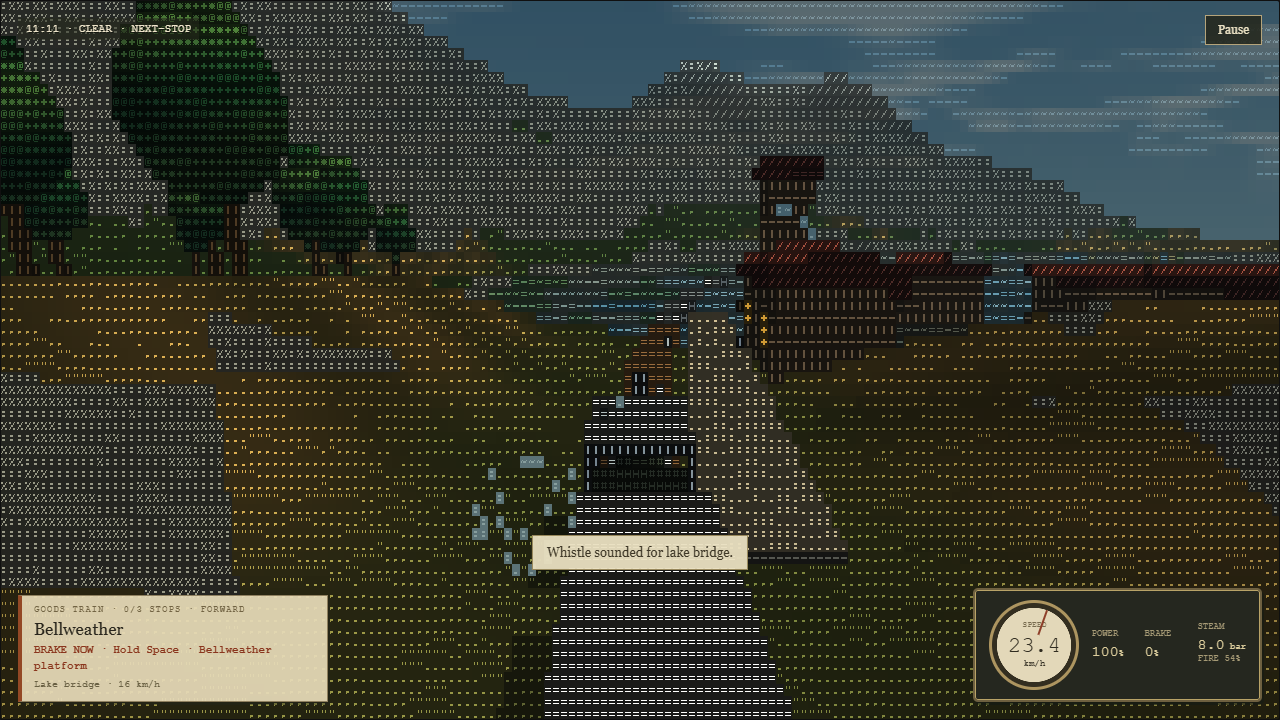
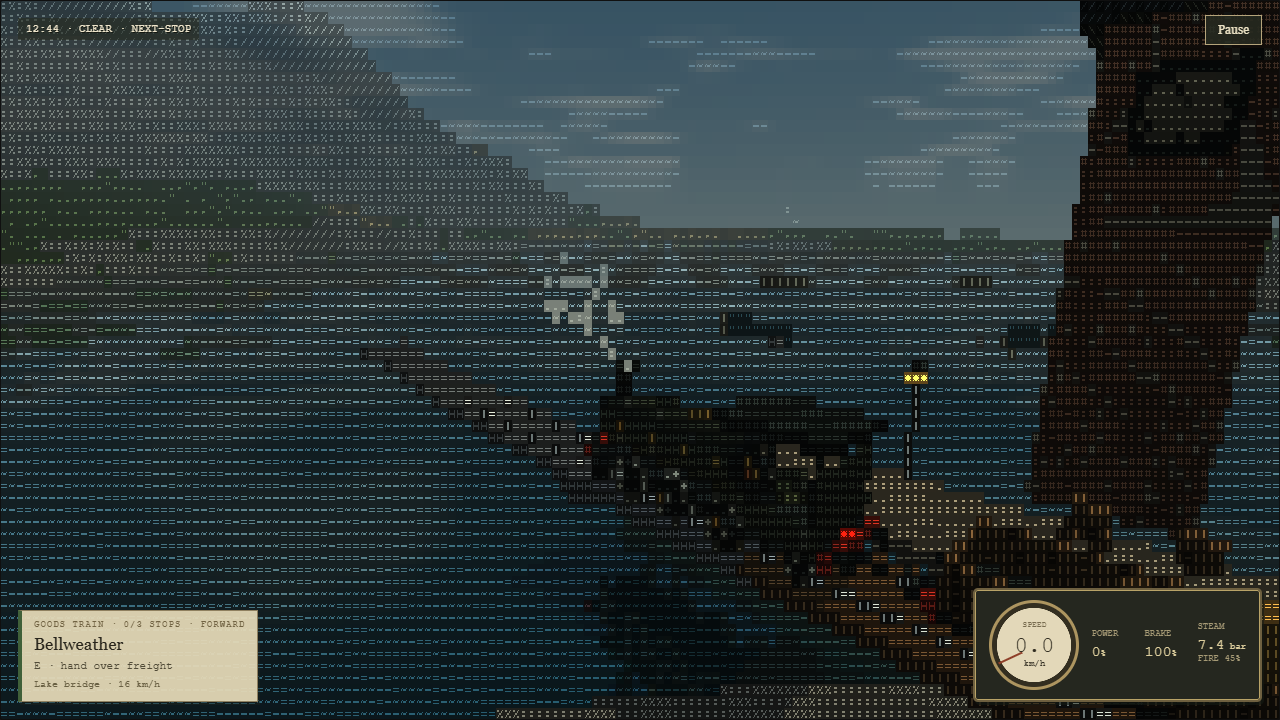
docs: record detailed final circuit, colour checks and checkpoint recovery

diff --git a/outputs/NEXT_STOP_VERIFICATION.md b/outputs/NEXT_STOP_VERIFICATION.md
@@ -1,8 +1,42 @@
 # Next Stop verification and improvement report
 
-The playable game is **next-stop.html, 130,946 bytes**. It contains HTML, CSS, JavaScript, shaders, numeric glyph masks and the procedural world generator. Open it directly in a WebGL2 browser. No server, connection, installation, images, engine or runtime companion files are needed.
+The playable game is **next-stop.html, 152,824 bytes**. It contains HTML, CSS, JavaScript, shaders, numeric glyph masks and the procedural world generator. Open it directly in a WebGL2 browser. No server, connection, installation, images, engine or runtime companion files are needed. This uses 7.64% of the 2,000,000-byte ceiling; the remaining budget is room for useful work, not padding.
 
-SHA-256: 1f60bee0124fb590cd224960d6107af20d908c8c9932c0b70fdd455fcfc8dbae.
+SHA-256: 64b6277c424d461363f2da89c9575ba9faa2b3438b0adbf2bfe6d165a07aa3f6.
+
+## Structural detail, colour and feedback
+
+Version **4** refines the existing railway. The locomotive uses capped analytical cylinders, spoked wheels, quartered crank pins and moving coupling/piston rods, a flared chimney, domes, buffers, brass/copper pipes, divided cab and actual-pressure gauges. Passenger carriages, timber logs, a mail van and mixed farm goods have distinct numerical bodies/cargo. Wheel motion follows signed unwrapped travel, including reverse and route wrap; stopped/paused mechanisms freeze.
+
+Buildings have true triangular gables, brick/siding variation, slate courses, framed glazing, doors, sills and chimneys. Stations add canopies, steps, furniture, a tower clock and readable nameboards emitted directly from numerical glyph masks. The default world has **1,492 static records and 220 trees**. Details use distance LOD, while chimney smoke is limited to the nearest three stacks; the renderer remains capped at 256 uploaded records.
+
+Material gradients, warm highlights, cool ambient shadows, sky/ground colour bounce, metallic highlights and distant aerial haze give surfaces and landscape depth. Stars come from a fixed 64-direction celestial catalogue. Translating the camera leaves their projected cells unchanged; rotating it reprojects those same directions. Clouds can occlude them. All these values go directly into glyph IDs/colours.
+
+The Web Audio API synthesizes wheel-linked steam pulses, rail-joint clicks, whistle and station bells. Pause silences the transport immediately; volume/mute apply immediately, with no stale scheduled gain. A served stop shows earned shillings and service rating. Buttons have restrained hover/press response; reduced motion disables the UI animations. The existing steam/service/crossing/exploration loop supplies choices and rewards appropriate to the rural railway.
+
+Local progress checkpoints every ten seconds during play and on pause. **Continue last journey** restores it after reopening the file. Storage denial leaves play and portable JSON export usable; corrupt checkpoint data cannot replace valid live state. Host save operations remain explicit.
+
+### Latest browser evidence
+
+| Run | Loaded artifact | Coverage and result |
+|---|---:|---|
+| 21 detail/colour inspection | 152,808 bytes, world 4 | Passed cab/side/front/station/clock/name/night drawing, zero GL errors, real W/brake motion of wheel/rod records and paused freeze |
+| 23 colour/feedback | 152,808 bytes, world 4 | Passed real-input steam/joint pulses, pause silence, fixed star translation/rotation, colour views, exact Continue, corrupt-checkpoint atomicity and storage-denied JSON export |
+| 26 UI/audio repeat | **152,824 bytes**, world 4 | Passed immediate volume/mute, timber selection, frozen pause, keyboard ledger/focus wrapping, 390×844 layout, actual file/host saves, invalid-save atomicity, legacy world 1 and context/lifecycle restoration |
+| 27 passenger/free running | **152,824 bytes**, world 4 | Passed actual passenger leg in **131.197 s**, early-service rejection, boarding wait, fare and one station bell; free-running boarding/exit |
+| 28 world-3 compatibility | **152,824 bytes** | Passed actual file-chooser import of the existing completed world-3 save, exact serialized state/checksum and error-free rendering |
+| 29 final detailed circuit | **152,824 bytes**, world 4 | Passed in **462.219 s**: three deliveries, all six foot discoveries, firing/crossings, deliberate overshoot/reverse recovery, clear camera orbit and three station bells |
+| 30 final colour/feedback | **152,824 bytes**, world 4 | Passed moving-train periodic checkpoint, train rhythm/pause, fixed star cells, day/dusk/night views, exact Continue, corrupt-checkpoint atomicity and storage-denied export |
+
+Runs 21/23 preceded only the 16-byte immediate-volume fix. Their visual/checkpoint source is unchanged in the delivered file; 26 rechecked affected audio controls, and 30 repeated the colour/feedback checks on the exact final artifact with an added periodic-save assertion. Fixed camera/time views in 21/23/30 are **render inspections**, not claimed playthroughs. In the isolated upward night-sky inspection, all **17 visible star cells** stayed identical after an 80-by-60-metre translation; rotation changed their projection. The ordinary-input sound leg in 30 emitted **36 chuffs and three rail clicks** over 41.47 metres of wheel travel, with a running AudioContext; pulse counters froze and transport gain was zero while paused. It observed a recent moving-train checkpoint before pausing, then restored the paused checkpoint exactly after reload. This verifies synthesis/state, not subjective listening quality.
+
+Successful latest runs reported no unexpected application exceptions, console warnings or WebGL errors, and requested only local files with networking disabled. The deliberate invalid-save diagnostic was expected and explicitly checked. Edge was 154.0.4258.62; Chrome was 154.0.8037.97.
+
+**58/58 focused checks passed:** world/physics 15, guidance 8, exploration 7, railway/service/version 12, refinement 5, renderer ownership/failures 5 and renderer budget/LOD 6. Checks preserve all four NEXT-STOP checksums: **4bd6b452 / 190dfd5a / 0d37a594 / 63514cfa**. They exercise seam/reverse travel, stopped mechanisms, save validation, every service/cargo primitive budget, safe station spawns and close/far/close LOD retaining building silhouettes. Packaging/source parsing and byte-exact assembly checks are separate.
+
+Failed attempts remain: 22 initially timed out navigating the local file; 24 could not complete its initial radio selection. The repeat of 22 and trace 25 exposed a real queued-gain issue: Mute could stay applied after unchecking it in a paused menu. Direct current master gain plus canceled obsolete automation fixed it; 26 passed both directions and keyboard volume changes. Navigation now allows cold local shader setup up to 60 seconds; gameplay runs still use real elapsed time.
+
+Final circuit 29 used **1280×720**, standard quality, **160×60 glyph cells**. Its final 600-frame sample measured **16.7 ms median / 16.9 ms p95**, near 60 FPS. Renderer CPU submission was **0.4 / 0.7 ms**; CPU submission is not GPU execution time. The completed service earned **54 shillings** and emitted **1,574 chuffs, 157 rail clicks and three bells**. These measurements describe this machine and sampling window. The earlier short inspection-21 sample measured 16.7 / 16.8 ms, with CPU submission 0.5 / 1.7 ms. Evidence lives under .omx/evidence/cycles/21-detail-colour/, 23-colour-feedback/, 26-ui-immediate-audio/, 27-detailed-passenger/, 28-legacy3-render/, 29-detailed-final/ and 30-final-colour-feedback/.
 
 ## Rural railway improvements
 
@@ -16,7 +50,7 @@ SHA-256: 1f60bee0124fb590cd224960d6107af20d908c8c9932c0b70fdd455fcfc8dbae.
 
 Existing grade/power-aware arrival cues, platform-centre handling, reverse recovery, F camera centring, safe smoothed chase positions and dynamic primitive reservation remain.
 
-## Actual browser runs
+## Historical rural-renewal browser runs
 
 Successful driving runs use ordinary keyboard controls in offline browsers. State reads support assertions; the train/player is not teleported and simulation time is not accelerated. The walking tester reads authoritative surfaces to plan around obstacles, then uses normal turn/walk keys.
 
@@ -27,19 +61,19 @@ Successful driving runs use ordinary keyboard controls in offline browsers. Stat
 | 17 rural UI/audio | **130,946 bytes**, world 3 | Focused run | Timber selection, pause freeze, keyboard ledger/Tab wrap, narrow layout, audio controls, file/host saves, legacy import, context/lifecycle |
 | 19 final rural circuit | **130,946 bytes**, world 3 | **449.399 s** | Three deliveries, **six of six** foot discoveries, firing/crossings, overshoot/reverse recovery and collision-free camera orbit |
 
-Runs 17 and 19 loaded the exact SHA-256 above. Passenger run 14 preceded only the volume/mute controls; those received real keyboard verification in 17. Edge was 154.0.4258.62 and Chrome 154.0.8037.97. Successful runs recorded no unexpected application exceptions, console warnings, WebGL errors or external requests. The deliberate invalid-save diagnostic in the UI run was expected and checked explicitly.
+Runs 17 and 19 loaded SHA-256 1f60bee0124fb590cd224960d6107af20d908c8c9932c0b70fdd455fcfc8dbae, the earlier 130,946-byte build. Passenger run 14 preceded only its volume/mute controls; those received real keyboard verification in 17. Edge was 154.0.4258.62 and Chrome was 154.0.8037.97. Successful runs recorded no unexpected application exceptions, console warnings, WebGL errors or external requests. The deliberate invalid-save diagnostic in the UI run was expected and checked explicitly.
 
 Earlier historical coverage remains: baseline/driving circuits 01 and 02 (307.041 / 307.304 seconds); field-journal circuit 05 (362.372 seconds); legacy-save night/exploration leg 06 (116.401 seconds). Those used earlier builds and do not prove every new feature.
 
 Failed evidence remains. Attempts 10 and 11 drove successfully but their straight-line walking helper pressed forward into a correctly solid station building. Extending the timeout did not solve it; obstacle planning fixed the harness, and 19 repeated the complete flow. Attempt 18 completed two stops/four notes but required a one-metre endpoint on a two-metre planning grid; the corrected endpoint tolerance passed numerical replay before the full repeat. Attempt 13 timed out during local navigation while several browsers were running; the serial repeat passed as 14. Attempts 15 and 16 read audio gain before scheduled changes reached its timeline; waiting for actual gain changes passed as 17. Earlier attempts 03/04/07 involved omitted reverse power, background control timing and clicking behind an open dialog. None is counted as a passed run.
 
-## Focused and visual verification
+## Historical rural-renewal focused and visual verification
 
-**52/52 checks passed:** world/physics 15, journey guidance 8, exploration 7, railway/version/service 12, renderer ownership/failures 5 and renderer budget 5. The packaging audit parses the inline runtime and checks dependency/media/network restrictions. The builder caps the game at **2,000,000 bytes**. Source assembly matches the delivered HTML byte for byte.
+The rural-renewal build passed **52/52 checks:** world/physics 15, journey guidance 8, exploration 7, railway/version/service 12, renderer ownership/failures 5 and renderer budget 5. Latest coverage is the 58 checks above. The packaging audit parses the inline runtime and checks dependency/media/network restrictions. The builder caps the game at **2,000,000 bytes**. Source assembly matches the delivered HTML byte for byte.
 
 UI checks verified a frozen serialized state while paused, keyboard access to the ledger, focus wrapping and destination selection. At **390 by 844**, the 350 by 804 menu fits with internal scrolling and no horizontal overflow. Native range/checkbox keys changed whistle volume/mute and the actual audio gain.
 
-Actual JSON download/file import and host export/import restored exact progress. Invalid boiler pressure produced a readable rejection and preserved state/live object identities. A real original save was imported through the file chooser, recreating generation 1 checksum **4bd6b452** and an automatic fireman. Numerical checks also preserve generation 2 checksum **190dfd5a**; current generation 3 is **0d37a594** for NEXT-STOP.
+Actual JSON download/file import and host export/import restored exact progress. Invalid boiler pressure produced a readable rejection and preserved state/live object identities. A real original save was imported through the file chooser, recreating generation 1 checksum **4bd6b452** and an automatic fireman. Numerical checks also preserve generation 2 checksum **190dfd5a**; rural-renewal generation 3 is **0d37a594** for NEXT-STOP.
 
 Destroy/recreate released listeners/animation and retained saved service through restart. Real WebGL context loss/restoration while the journal was open preserved progress and its paused state, and drawing resumed without GL or console errors.
 
@@ -47,9 +81,9 @@ Fixed-camera rendering inspections over **1.2 seconds** measured **380 changed f
 
 The original 17 acceptance checks were completed earlier. Retained evidence covers direct glyph emission, terrain/route agreement, water reflections responding to motion, daylight/weather and lit windows, pointer-capture fallback, quality/resize, missing WebGL2 and deliberate shader failure. Changed behavior was rechecked above; every historical visual experiment was not repeated this session.
 
-## Performance and limits
+## Historical performance and continuing limits
 
-The final circuit used **1280 by 720**, standard quality and **160 by 60 glyph cells** (9,600). Its final rolling 600-frame window measured **16.7 ms median / 16.9 ms p95**. Renderer CPU submission measured **0.3 / 0.7 ms**; these are not GPU execution times. Run 09 measured 16.7 / 16.9 ms, near 60 FPS. Measurements describe this machine and sampling window, not universal performance.
+Rural-renewal circuit 19 used **1280 by 720**, standard quality and **160 by 60 glyph cells** (9,600). Its final rolling 600-frame window measured **16.7 ms median / 16.9 ms p95**. Renderer CPU submission measured **0.3 / 0.7 ms**; these are not GPU execution times. Run 09 measured 16.7 / 16.9 ms, near 60 FPS. Measurements describe this machine and sampling window, not universal performance.
 
 Rendering remains bounded: 256 uploaded primitives, 192 terrain traversal cells, 48 shadow objects and one reflected query with reduced limits. The world is finite. There are no mobile touch controls or OS wrapper. window.NextStop.create({canvas, host}) exposes lifecycle, input and serialization for future embedding; the target OS/runtime remains unspecified.
 

diff --git a/outputs/CLAUDE_HANDOFF.md b/outputs/CLAUDE_HANDOFF.md
@@ -20,13 +20,17 @@ I eventually want the game in my OS. Keep the host interface usable. Establish t
 
 ## Current game
 
-**130,946 bytes**, SHA-256 1f60bee0124fb590cd224960d6107af20d908c8c9932c0b70fdd455fcfc8dbae. Opens directly from disk without networking. See the verification report for precise browser-run versions, durations, measurements and retained failures.
+**152,824 bytes**, SHA-256 64b6277c424d461363f2da89c9575ba9faa2b3438b0adbf2bfe6d165a07aa3f6. Opens directly from disk without networking. See the verification report for precise browser-run versions, durations, measurements and retained failures.
 
 The old rural branch line now has compact paper notices, soot/brass instruments, mountain ridges, 220 trees, fields/fences, pitched roofs, an open locomotive cab, moving foliage/grass, flickering boiler fire, drifting smoke/clouds and warm lamp lighting. There are three services: goods, passengers and free running. Goods choices are mixed farm freight, heavier timber or prompt mail. Passenger stops require four seconds stopped before service. Free running has no delivery obligation.
 
-B adds coal; V whistles; fire/pressure affect pull. Slow for the bridge and farm crossing, whistle beforehand, and read earned fares/driver rating in the journal ledger. Stops refill coal/water. Settings offers an automatic fireman and whistle volume/mute. J opens six saved walking notes and destinations; C switches cab/chase, F centres the train camera. Original arrival guidance, safe collision and deliberate reverse recovery remain.
+B adds coal; V whistles; fire/pressure affect pull. Slow for the bridge and farm crossing, whistle beforehand, and read earned fares/driver rating in the journal ledger. Stops refill coal/water and ring a bell. Steam chuffs and rail clicks follow travelled distance. Settings offers an automatic fireman and immediate volume/mute. J opens six saved walking notes and destinations; C switches cab/chase, F centres the train camera. Original arrival guidance, safe collision and deliberate reverse recovery remain.
 
-The original 17-check specification was completed earlier. Current focused coverage is **52 passing checks**, plus the packaging audit. Current browser coverage and complete circuits are itemized in the report; earlier passed runs are retained as historical evidence rather than claimed as tests of every later change. No unattended automation is active.
+Version 4 adds a capped-cylinder boiler, spoked wheels, moving coupling/piston rods, brass/copper fittings, buffers, divided cab and pressure gauges; distinct passenger, timber, mail and mixed-goods carriages; true triangular country gables, masonry/siding, slate courses, framed windows/doors, canopies, station furniture, a clock and numerical-glyph nameboards. Material gradients, warm highlights/cool shadows and aerial haze add depth. A fixed celestial catalogue removes star parallax from translation; rotation projects the same directions into different cells.
+
+The app checkpoints local progress every ten seconds and on pause, with an explicit Continue action after reopening. Storage denial does not prevent play or portable JSON export. A corrupt checkpoint is rejected before live state changes. Checkpoints use next-stop-checkpoint; manual export retains next-stop-save. Browser storage is optional, and host persistence remains explicit.
+
+The original 17-check specification was completed earlier. Current focused coverage is **58 passing checks**, plus the packaging audit. Current browser coverage and complete circuits are itemized in the report; earlier passed runs are retained as historical evidence rather than claimed as tests of every later change. No unattended automation was created.
 
 ## File map
 
@@ -41,13 +45,16 @@ The original 17-check specification was completed earlier. Current focused cover
 | work/src/exploration.js | Safe foot landmarks, notes, destination and journal validation |
 | work/src/railway.js | Steam, service/cargo choices, crossings, fares and portable driver ledger |
 | work/src/renderer.js | Raw WebGL2 numerical scene queries and cell/display passes |
-| work/src/app.js | Input, fixed-step loop, UI, synthesized whistle, save integration and host lifecycle |
+| work/src/app.js | Input, fixed-step loop, UI, synthesized railway sound, local checkpoint, saves and host lifecycle |
 | work/src/shell.html | Inline themed HTML/CSS and assembly placeholder |
 | work/build.cjs | Source assembly and 2 MB bound |
 | work/run-cycle.cjs | Dedicated-process full offline circuit with reverse, orbit and all six discoveries |
 | work/playtest-cycle.cjs | Real-input driving and obstacle-aware walking helper |
 | work/playtest-passenger.cjs | Actual passenger boarding wait, fare and free-running interactions |
 | work/playtest-rural-ui.cjs | Cargo selection, keyboard/mobile/audio, JSON/host saves, legacy import and context/lifecycle |
+| work/playtest-detail.cjs | Labeled cab/side/front/station/clock/name/day/night render inspections and real-input moving/stopped mechanisms |
+| work/playtest-colour-feedback.cjs | Real-input train rhythm; isolated star translation/rotation, colour views, exact Continue and denied-storage export |
+| work/playtest-legacy3.cjs | Existing world-3 save imported through the actual file chooser and drawn with current shaders |
 | work/qa/ | Focused regressions, packaging audit and historical reviews |
 | .omx/plans/, .omx/state/, .omx/evidence/ | Local plans, QA inventory and browser evidence, ignored by Git |
 
@@ -56,15 +63,17 @@ Development files and screenshots are not runtime dependencies. Edit source and 
 ## Architecture to preserve
 
 - Authoritative terrain is a seeded 129 by 129 height array. CPU and renderer share its bilinear surface. Train/carriages use a closed cumulative-arc-length route.
-- Generation **1** preserves the original world. Generation **2** preserves the rural terrain/tree layout. New worlds default to **3**, adding pitched roof records and the open cab. For NEXT-STOP, checksums are 4bd6b452 / 190dfd5a / 0d37a594 respectively. Restore the explicit saved world version.
+- Generations **1/2/3** preserve their original numerical worlds. New worlds default to **4** with detailed structures and trains. NEXT-STOP checksums are 4bd6b452 / 190dfd5a / 0d37a594 / 63514cfa. Version-4 details are appended after base generation without consuming its random stream. Restore the explicit saved world version.
 - Simulation remains independent of DOM/WebGL with fixed 60 Hz updates and bounded catch-up. Step the railway module before simulation so traction and predicted stopping use current pressure/cargo load. Guidance integrates the same forces on an isolated descriptor.
 - The scene pass runs at glyph-grid resolution into three RGBA8UI attachments. The display pass expands numeric 5 by 7 glyph masks. Numerical textures contain world data, not pictures.
-- Primitive types: 0 box, 1 ellipsoid, 2 numerical pitched prism. The prism interval clips two roof planes. Foliage displacement is cosmetic; static trunks remain authoritative collision. Materials 12 foliage, 17 gaslamp, 18 fire, 19 smoke, 20 red lamp and 23 locomotive soot supplement the original palette.
+- Primitive types: 0 box, 1 ellipsoid, 2 legacy trapezoid roof; 3/4/5 capped elliptical cylinders along local Z/X/Y; 6 pitched box; 7 true triangular gable prism. Detail metadata occupies object record 11. Materials 24 onward add masonry, siding, glazing, brass/copper, spokes, slate, clock/gauges, nameboards and cargo grain. Nameboards use the existing numerical glyph masks directly in the scene pass, never an image/font asset.
+- Version-4 wheelTravel is signed unwrapped metres, updated from actual trapezoidal integration and interpolated linearly before radius-specific wheel phases. Do not derive mechanism phase from wrapped route s or wall-clock time. Saves validate wheelTravel; old generations retain their schema. Station chimney smoke is limited to the three nearest chimneys within 110 m; close details use distance LOD.
+- Sky stars are 64 seeded fixed celestial directions projected once per frame using camera orientation and grid size. Eye position must remain absent. Clouds can occlude stars. Colour gradients/atmosphere are numerical shader values in the glyph-cell pass.
 - Budgets remain 256 uploaded records, 192 terrain traversal cells, 48 shadow objects and one reflected query with smaller limits. Static capacity is 256 minus actual dynamic count; changes invalidate selection. Dynamic records come first. Smoke adds real dynamic records, so do not restore a hard-coded train reservation.
 - F changes yaw/pitch and clears camera smoothing without changing train motion. Final smoothed chase positions must clear station solids. The new cab eye belongs inside the open frame.
 - Goods/passenger stops take priority over journal choices. After service, a selected note supplies exploration station guidance. Discovery requires foot mode. Menus freeze gameplay state.
 - App saves extend version-1 simulation saves with exploration and railway objects. Missing exploration means a legacy empty journal; missing railway gives an automatic fireman and preserves legacy train behavior. Missing cargo defaults to mixed. Validate candidate world, simulation, exploration and railway before replacing live references or GPU world data.
-- Steam, water/coal, crossing performance, service, cargo, fares, stop times and notes travel through JSON and host saves. Volume/mute are local interface preferences for the current app instance.
+- Steam, water/coal, crossing performance, service, cargo, fares, stop times and notes travel through JSON and host saves. Volume/mute are local interface preferences for the current app instance. Synthesized voices feed a transport gain then master gain. Pause zeros transport immediately; volume/mute cancel obsolete master automation and assign the current value directly. Close the AudioContext on destroy.
 - window.NextStop.create({canvas, host}) exposes start/pause/resume/resize/setInput/serialize/restore/destroy. Destroy cancels animation, removes listeners, releases GPU resources and closes synthesized audio.
 - Keep explicit if/else box/roof normal branches. Intel Iris Xe ANGLE/D3D11 previously failed at draw time on a nested vector ternary; successful shader linking alone did not catch it.
 
@@ -77,20 +86,23 @@ Run from the project directory:
     node work/qa/journey-guidance.cjs
     node work/qa/exploration-regression.cjs
     node work/qa/railway-regression.cjs
+    node work/qa/refinement-regression.cjs
     node work/qa/renderer-resources.cjs
     node work/qa/renderer-budget.cjs
     node work/qa/audit.cjs
 
-Results: **15 + 8 + 7 + 12 + 5 + 5 = 52**. Use actual browser interaction and screenshots for changed visuals/UI.
+Results: **15 + 8 + 7 + 12 + 5 + 5 + 6 = 58**. Use actual browser interaction and screenshots for changed visuals/UI.
 
 After meaningful gameplay changes, run a complete real-time circuit with a fresh evidence name:
 
     node work/run-cycle.cjs next-improvement
     node work/playtest-passenger.cjs next-passenger
     node work/playtest-rural-ui.cjs next-ui
+    node work/playtest-detail.cjs next-detail
+    node work/playtest-colour-feedback.cjs next-colour-feedback
 
 Run heavy browser playtests serially and in dedicated processes. Background promises between Node REPL calls previously lost control timing. R resets throttle, so apply W again after reversing. The walking helper now reads numerical surfaces to plan around solid buildings and then uses ordinary turn/walk keys; it never teleports or changes player state. A straight-line helper previously pressed forward into a correctly blocking station wall.
 
-Audio assertions wait for scheduled gain changes to reach the audio timeline. Preserve failed attempts rather than hiding them. Development browser/runtime paths are machine-specific and should be adapted elsewhere without adding player dependencies.
+Audio volume/mute assertions check the actual master gain, including paused menus. Train rhythm assertions check real moving-wheel pulses, while station service checks earned fares and bells. Preserve failed attempts rather than hiding them. Development browser/runtime paths are machine-specific and should be adapted elsewhere without adding player dependencies.
 
 The valley is finite, scene/reflection budgets remain bounded, touch controls and an OS wrapper are absent, and the target OS runtime is unspecified. Measured frame rates describe this machine/sample only. Historical reports under work/qa describe earlier builds; use current verification for present scope.
